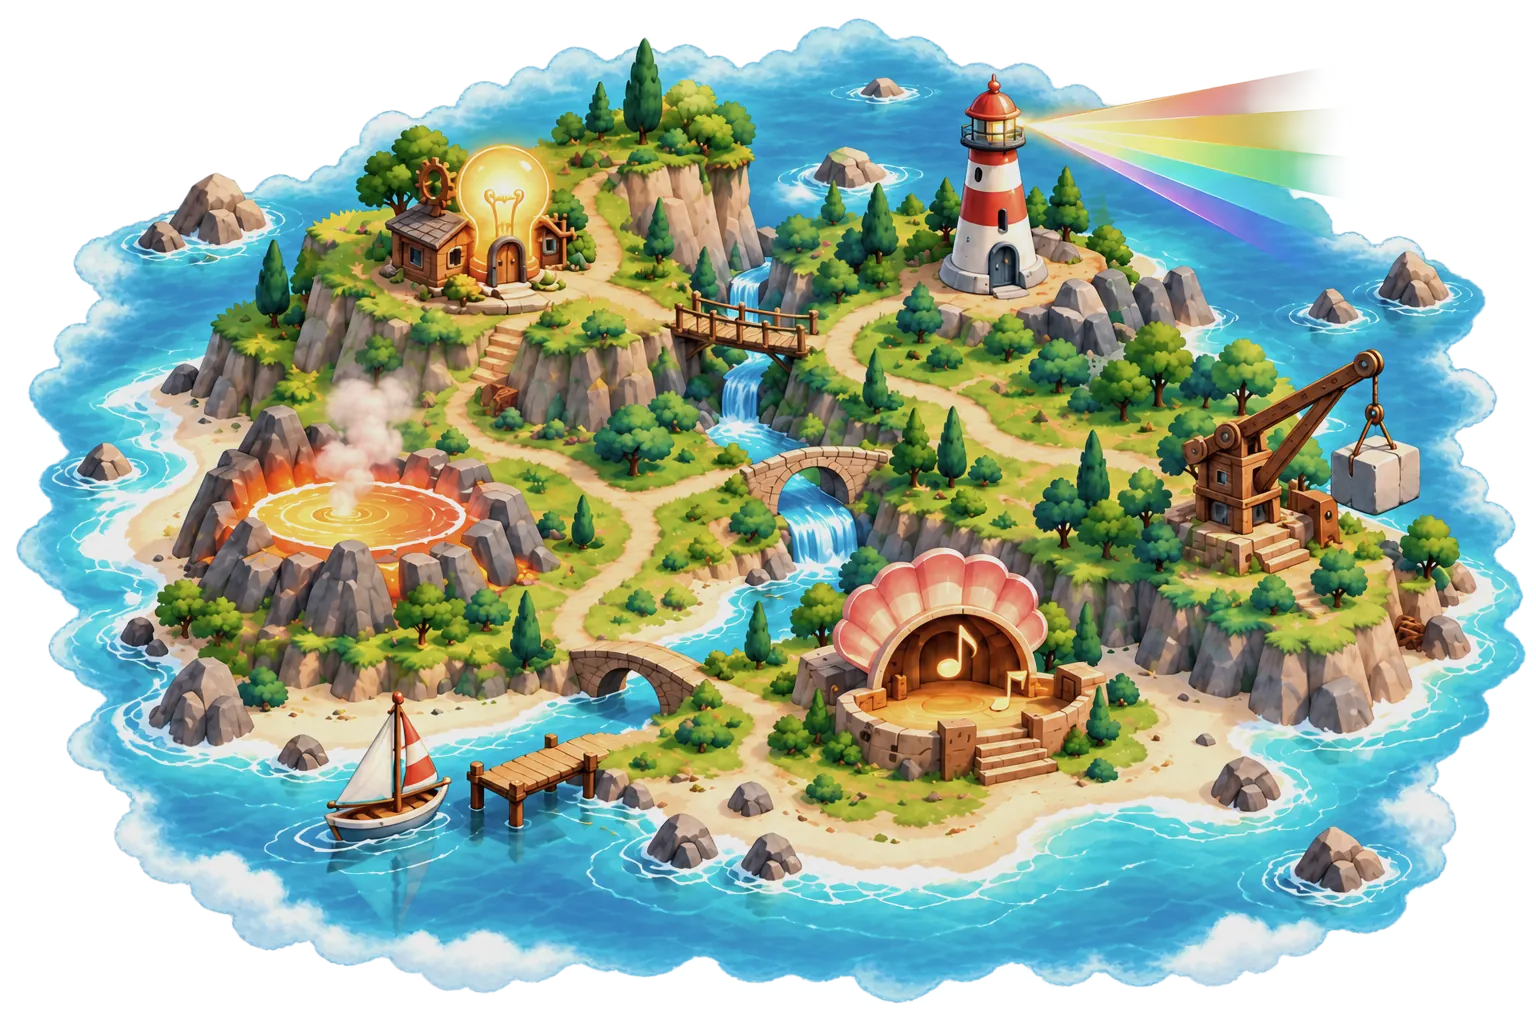
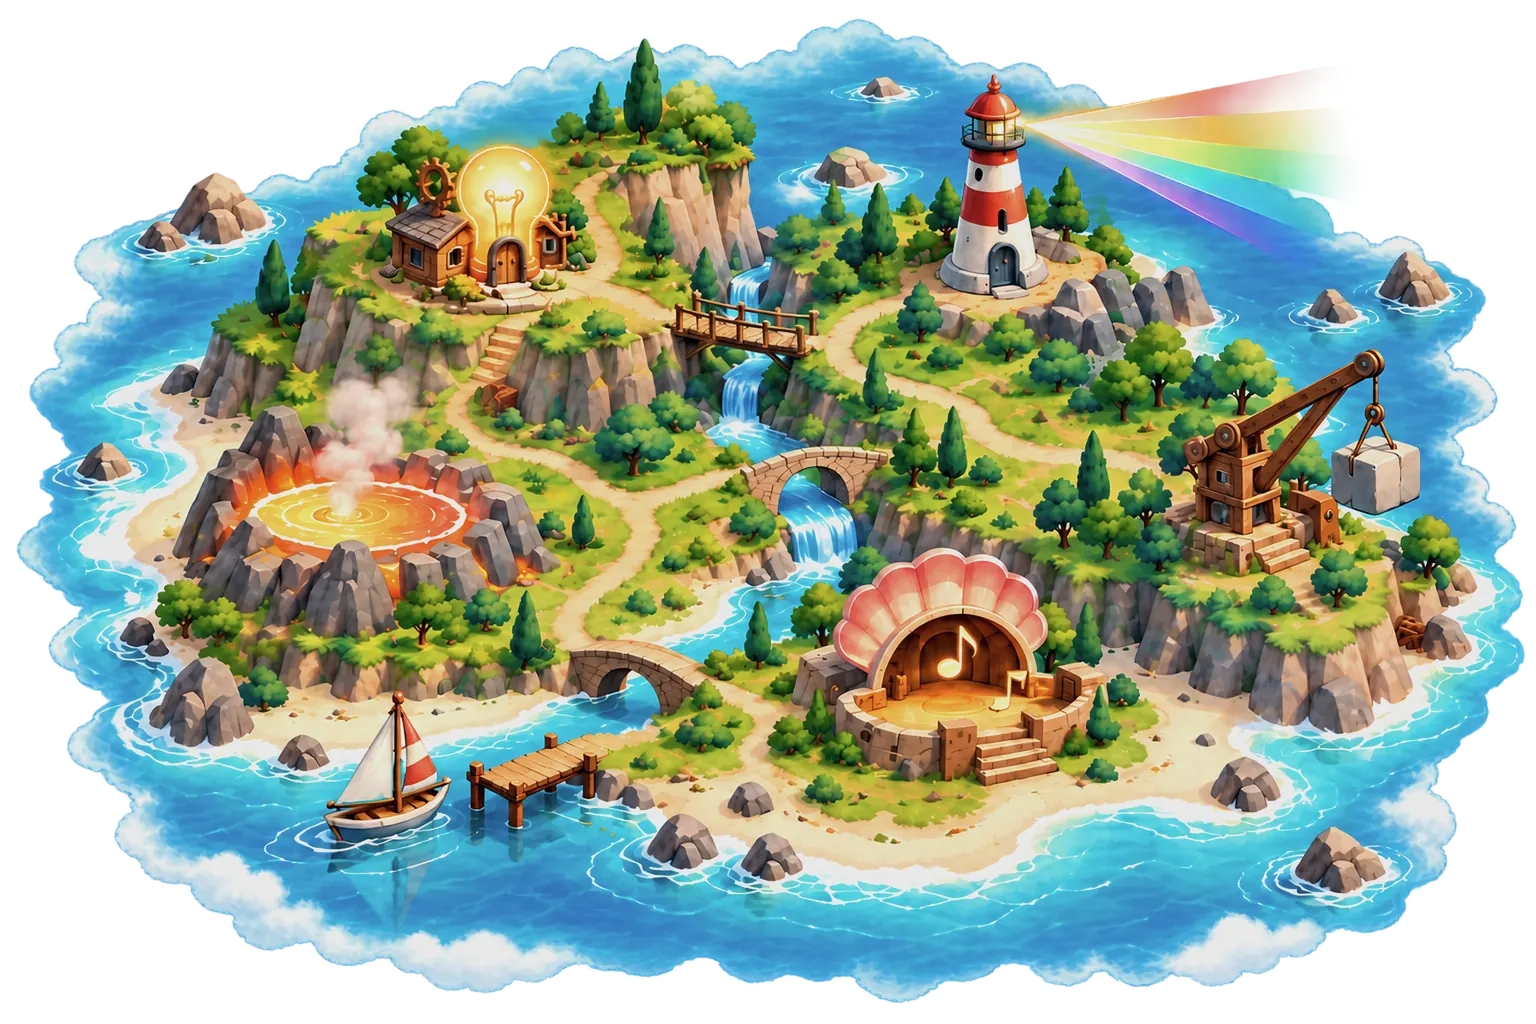
feat: sharper island art, aligned lesson page, drop replaced sources
- Export the island from the 2× upscaled source at 2400, 1536 and 800px;
  only large high-resolution screens get the 2400px file, phones keep 800
- Put the lesson page on the site measure so its bar, back link and board
  line up with the header and other pages
- Remove art/map/island.png and thumbs-sheet.png, replaced by island@2x.png
  and the per-topic sources

diff --git a/src/global.css b/src/global.css
@@ -1230,9 +1230,16 @@
 
   /* ── Mission shell ───────────────────────────────────────── */
 
+  /* The site measure (1184px inside 48px gutters, 24px on phones), like .site-header, so the bar's rule,
+     the back link and the board line up with every other page. */
   .mission-shell {
-    max-width: 1320px;
+    flex: 1 0 auto;
+    width: min(1184px, 100% - 96px);
     margin: 0 auto;
+
+    @media (max-width: 760px) {
+      width: calc(100% - 48px);
+    }
   }
 
   .mission-bar {
@@ -1240,7 +1247,7 @@
     grid-template-columns: 1fr auto 1fr;
     align-items: center;
     gap: 16px;
-    padding: 14px 32px;
+    padding: 14px 0;
     border-bottom: 1px solid var(--color-line);
 
     & .back-button {
@@ -1255,7 +1262,7 @@
 
     @media (max-width: 760px) {
       grid-template-columns: 1fr auto;
-      padding: 10px 16px;
+      padding: 10px 0;
       row-gap: 6px;
 
       & .stage-indicator {
@@ -1337,10 +1344,10 @@
   }
 
   .mission-main {
-    padding: 32px 32px 48px;
+    padding: 32px 0 48px;
 
     @media (max-width: 760px) {
-      padding: 20px 16px 36px;
+      padding: 20px 0 36px;
     }
   }
 

diff --git a/src/pages/MapPage.tsx b/src/pages/MapPage.tsx
@@ -58,8 +58,8 @@ export function MapPage() {
           <picture className="archipelago-scene">
             {/* Phones always get the small file, whatever their pixel density. */}
             <source media="(max-width: 899px)" srcSet="/assets/map/island-800.webp" />
-            <img src="/assets/map/island-1536.webp" srcSet="/assets/map/island-800.webp 800w, /assets/map/island-1536.webp 1536w"
-              sizes="(min-width: 1280px) 892px, 70vw" width="1536" height="1024" alt="" loading={sceneLoading} decoding="async" />
+            <img src="/assets/map/island-1536.webp" srcSet="/assets/map/island-800.webp 800w, /assets/map/island-1536.webp 1536w, /assets/map/island-2400.webp 2400w"
+              sizes="(min-width: 1800px) 1200px, (min-width: 1200px) 66vw, 60vw" width="1536" height="1024" alt="" loading={sceneLoading} decoding="async" />
           </picture>
           {/* Duplicates the list for pointer users only, so it stays out of the tab order and the accessibility tree. */}
           <div className="archipelago-islands" aria-hidden="true">
